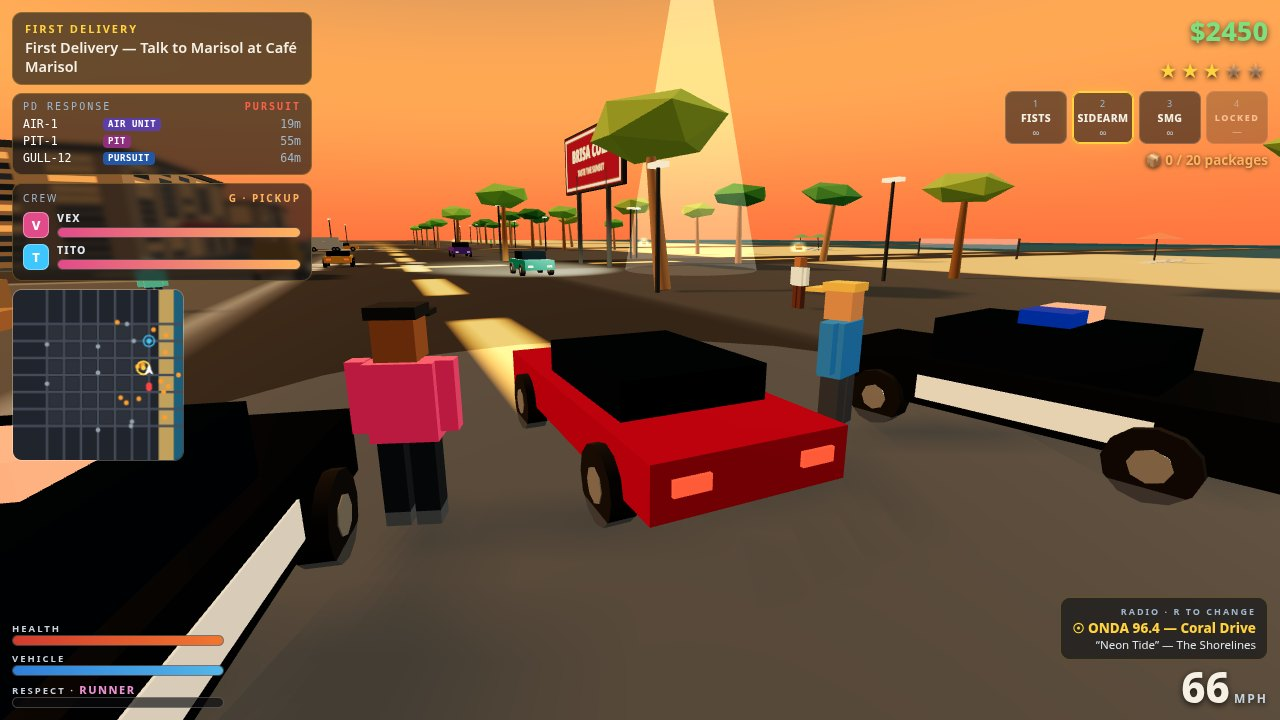
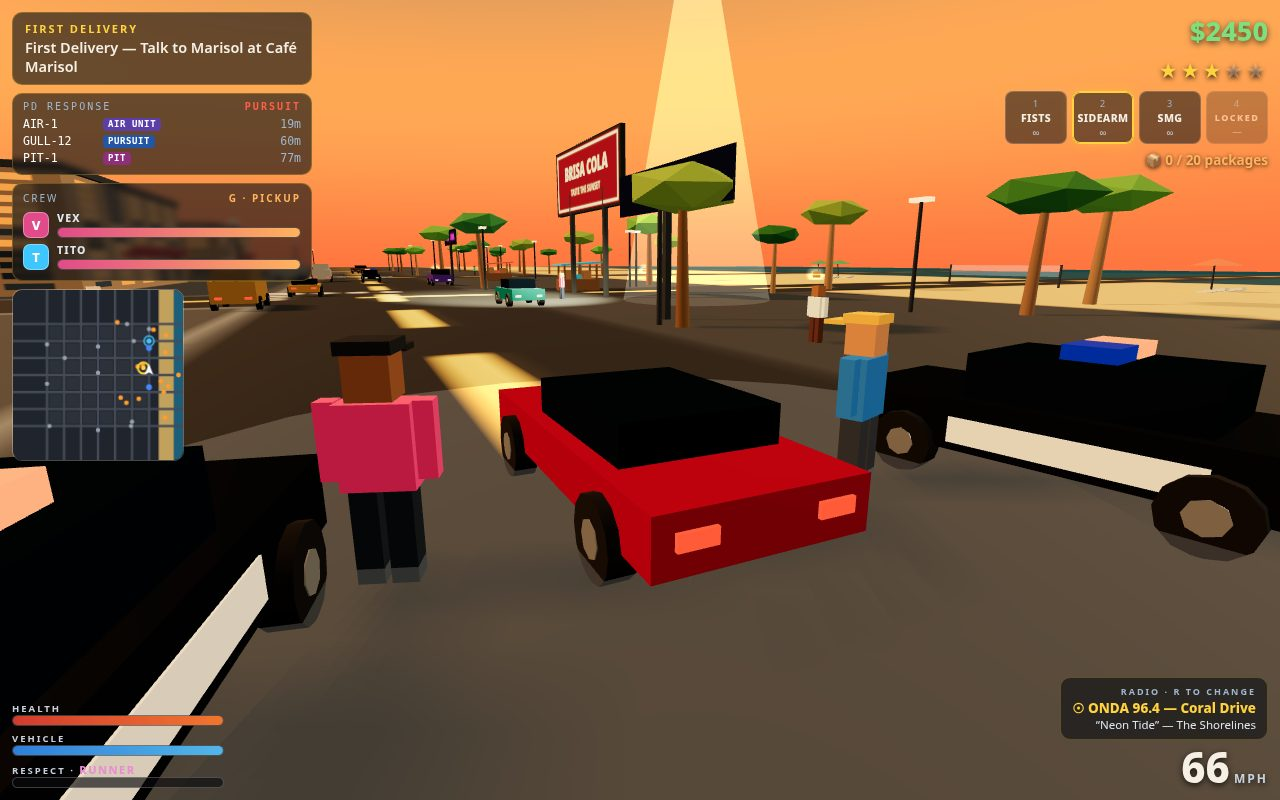
Palmshade City v11: v9 base + density pass, bright re-staged screenshots

diff --git a/game/src/main.js b/game/src/main.js
@@ -113,8 +113,8 @@ G.vanCar = vanCar;
 const boat = createBoat(scene, landmarks.boatDock.x, landmarks.boatDock.z, Math.PI / 2);
 G.boat = boat;
 spawnParkedCars(scene);
-const traffic = new Traffic(scene, 9);
-const peds = new Peds(scene, 26);
+const traffic = new Traffic(scene, 13);
+const peds = new Peds(scene, 34);
 const police = new Police(scene);
 const combat = new Combat(scene);
 G.combat = combat;
@@ -645,6 +645,11 @@ function stageShot(name) {
     extraCar('sedan', 186.5, -48, 0, 0x2ea6a0);
     extraCar('sport', 174.5, -64, Math.PI, 0xf2b035);
     extraCar('pickup', 186.5, -82, 0, 0x7a4fd0);
+    extraCar('convertible', 186.5, 6, 0, 0x53a06b);
+    extraCar('van', 174.5, -100, Math.PI, 0xe8e4da);
+    placePed(3, 190.5, -52, -Math.PI / 2);
+    placePed(4, 170.5, -58, 0.9);
+    placePed(5, 190.5, 2, Math.PI / 2);
     placePed(0, 190.5, -27, -Math.PI / 2);
     placePed(1, 190.5, -11, Math.PI / 2);
     placePed(2, 170.5, -36, 0.4);
@@ -659,10 +664,17 @@ function stageShot(name) {
     player.teleport(170.5, -20, -1.2);
     extraCar('sedan', 186, -28, 0.05, 0x3f9be0);
     extraCar('sport', 180.5, -42, Math.PI, 0xe14b8a);
+    extraCar('pickup', 186.5, -58, 0, 0x7a4fd0);
+    extraCar('convertible', 174.5, -6, Math.PI, 0x53a06b);
+    extraCar('van', 186.5, 8, 0, 0xe8e4da);
     placePed(0, 173.5, -24.5, 2.6);
     placePed(1, 168.2, -15.2, -0.6);
     placePed(2, 172.8, -12.8, 3.0);
     placePed(3, 190, -26, -Math.PI / 2);
+    placePed(4, 190.5, -44, -Math.PI / 2);
+    placePed(5, 169.5, -32, 1.1);
+    placePed(6, 190.5, -8, Math.PI / 2);
+    placePed(7, 171.5, -48, -0.4);
     G.shotCam = { pos: new THREE.Vector3(175.6, 2.0, -16.2), look: new THREE.Vector3(169.6, 1.25, -20.8) };
   } else if (name === 'mission') {
     vanCar.group.position.set(169, 0, -43); vanCar.heading = 0.35; vanCar.group.rotation.y = 0.35;
@@ -694,6 +706,8 @@ function stageShot(name) {
     G.dialogue(DARIO, ['Dario: "Easy on the throttle past the pier — run it out past the south buoy, and bring my Brisa home."']);
     placePed(0, 240, -14, Math.PI / 2);
     placePed(1, 238, 12, -0.5);
+    placePed(2, 246, 26, -1.2);
+    placePed(3, 232, -28, 0.6);
     G.shotSpeedo = 21;
     G.shotCam = { pos: new THREE.Vector3(308, 4.2, 46), look: new THREE.Vector3(289, 0.7, 29) };
   } else if (name === 'race') {
@@ -734,13 +748,9 @@ function stageShot(name) {
     const cu3 = police.spawnUnit({ x: 180, z: 36 }); cu3.role = 'RAM';
     police.setHeliForced(true, { x: 180, z: 36 });
     if (police.heli) { police.heli.group.position.set(172, 17, 22); police.heli.group.lookAt(180, 0, 36); }
-    // dusk grade: dimmer sky light, low sun for long shadows, headlights pop
-    renderer.toneMappingExposure = 1.0;
-    scene.traverse(o => {
-      if (o.isHemisphereLight) o.intensity = 0.5;
-      else if (o.isAmbientLight) o.intensity = 0.22;
-      else if (o.isDirectionalLight && o.castShadow) { o.intensity = 1.2; o.position.set(-340, 85, -120); }
-    });
+    // v11: bright daylight grade — keep the golden-hour exposure from above,
+    // no dusk dimming, so the police action reads clearly in full sun
+    renderer.toneMappingExposure = 1.34;
     G.shotCam = { pos: new THREE.Vector3(176.2, 2.8, 43.2), look: new THREE.Vector3(180.2, 1.05, 35.4) };
   } else { // beach
     player.teleport(234, -18, Math.PI / 3);
@@ -804,6 +814,7 @@ window.__game = {
     taxi: activities.taxi.phase,
     taxiPed: activities.taxi.ped ? { x: Math.round(activities.taxi.ped.x), z: Math.round(activities.taxi.ped.z) } : null,
     weapon: G.weapon,
+    pedCount: peds.list.length, trafficCount: traffic.units.length,
     upgrades: { ...G.upgrades },
     standing: { ...G.standing },
     district: G.districtAt(G.entityPos().x),
@@ -848,5 +859,5 @@ window.__game = {
   damageNearestCar: n => { const c = nearestCar(9); if (c) { c.health = n; } return !!c; },
   spikeHere: () => police.debugSpikeAt(G.entityPos()),
   setCarHealth: n => { if (G.currentCar) G.currentCar.health = n; },
-  version: 'palmshade-city-3',
+  version: 'palmshade-city-11',
 };

diff --git a/game/src/city.js b/game/src/city.js
@@ -214,7 +214,7 @@ export function buildCity(scene) {
   scene.add(water);
 
   // ---------- buildings ----------
-  const facades = [facadeTextures('#8a5a48', 0.5), facadeTextures('#5d6d7e', 0.62), facadeTextures('#a08364', 0.45), facadeTextures('#746a8a', 0.55)];
+  const facades = [facadeTextures('#8a5a48', 0.68), facadeTextures('#5d6d7e', 0.78), facadeTextures('#a08364', 0.62), facadeTextures('#746a8a', 0.72)];
   const roofMat = new THREE.MeshStandardMaterial({ color: 0x3c4046, roughness: 1 });
   const reserved = new Set(['150,-30', '-30,-150', '-150,150', '90,90', '-30,30']);
   function building(x, z, w, d, h, fi) {
@@ -404,7 +404,7 @@ export function buildCity(scene) {
       spots.push({ x: r + s * 9.6, z: -100 + rng() * 200 });
       spots.push({ x: -100 + rng() * 200, z: r + s * 9.6 });
     }
-    for (const s of spots.slice(0, 26)) {
+    for (const s of spots) {
       const kind = rng();
       if (kind < 0.4) { box(benchM, 2, 0.5, 0.6, s.x, 0.45, s.z, scene); addCollider(s.x, s.z, 2, 0.6, 0.5); }
       else if (kind < 0.7) { const b = new THREE.Mesh(new THREE.CylinderGeometry(0.42, 0.42, 1, 8), binM); b.position.set(s.x, 0.5, s.z); b.castShadow = true; scene.add(b); }
@@ -451,6 +451,44 @@ export function buildCity(scene) {
     billboard(194, -56, Math.PI / 2, 'BRISA COLA', 'TASTE THE SUNSET', '#8e2318', '#ffd9a0');
     billboard(194, 96, Math.PI / 2, 'ONDAS GRAND', 'SLEEP BY THE SEA', '#14425e', '#bfe6ff');
     billboard(-70, -104, 0.5, 'PALMSHADE MOTORS', 'OWN THE BOULEVARD', '#20301e', '#c8ffb0');
+  }
+  // ---------- v11 density: market stalls, crate stacks, daylight signs ----------
+  {
+    const stallCols = [0xe2725b, 0x3ec6ff, 0xffd23e, 0x53a06b, 0xe14b8a];
+    const woodM = new THREE.MeshStandardMaterial({ color: 0x7d5c39, roughness: 1 });
+    const crateM2 = new THREE.MeshStandardMaterial({ color: 0xa87c4c, roughness: 0.95 });
+    [[196, -96], [196, -64], [196, 52], [196, 84], [132, -52], [-52, 8]].forEach(([sx, sz], i) => {
+      const cm = new THREE.MeshStandardMaterial({ color: stallCols[i % stallCols.length], roughness: 0.85 });
+      box(woodM, 3.4, 1.0, 2.0, sx, 0.5, sz, scene);
+      for (const px2 of [-1.5, 1.5]) for (const pz2 of [-0.85, 0.85]) box(woodM, 0.14, 2.3, 0.14, sx + px2, 1.15, sz + pz2, scene);
+      const canopy = box(cm, 3.9, 0.14, 2.5, sx, 2.35, sz, scene); canopy.rotation.z = 0.06;
+      box(crateM2, 0.8, 0.8, 0.8, sx - 1.0, 1.4, sz, scene);
+      box(crateM2, 0.7, 0.7, 0.7, sx + 0.7, 1.35, sz + 0.3, scene);
+      box(cm, 0.9, 0.35, 0.9, sx + 0.1, 1.2, sz - 0.4, scene);
+      addCollider(sx, sz, 3.4, 2.0, 1.0);
+    });
+    const barrelM = new THREE.MeshStandardMaterial({ color: 0x3f6fb5, roughness: 0.7 });
+    [[-128, 128], [-172, 118], [216, 32], [104, 68], [60, -96], [-96, -52]].forEach(([sx, sz]) => {
+      box(crateM2, 1.6, 1.6, 1.6, sx, 0.8, sz, scene);
+      box(crateM2, 1.3, 1.3, 1.3, sx + 0.4, 2.25, sz, scene);
+      box(crateM2, 1.5, 1.5, 1.5, sx + 1.9, 0.75, sz + 0.6, scene);
+      const b = new THREE.Mesh(new THREE.CylinderGeometry(0.55, 0.55, 1.3, 10), barrelM);
+      b.position.set(sx - 1.6, 0.65, sz + 0.8); b.castShadow = true; scene.add(b);
+      addCollider(sx, sz, 2.2, 2.2, 1.6);
+    });
+    const poleM2 = new THREE.MeshStandardMaterial({ color: 0x2f353c, roughness: 0.8 });
+    const signs = [
+      ['NEON PALMS', '#ff4fd8', 190, -96], ['HOTEL BRISA', '#3ec6ff', 190, 36],
+      ['CLUB FAROS', '#ff9f45', 190, 96], ['MARINA BAR', '#ff5f4a', 190, -36],
+      ['TACO SOL', '#7ddf7d', -96, -68], ['CINE ONDA', '#c792ff', 68, 128],
+    ];
+    for (const [txt, col, nx, nz] of signs) {
+      box(poleM2, 0.28, 6.4, 0.28, nx, 3.2, nz, scene);
+      const s = new THREE.Mesh(new THREE.PlaneGeometry(10, 1.9),
+        new THREE.MeshBasicMaterial({ map: signTexture(txt, '#101018', col), side: THREE.DoubleSide }));
+      s.position.set(nx, 5.6, nz); s.rotation.y = Math.PI / 2; s.userData.neon = true; scene.add(s);
+      addCollider(nx, nz, 0.5, 0.5, 3);
+    }
   }
   // ---------- Palms (instanced) ----------
   {

diff --git a/game/index.html b/game/index.html
@@ -179,7 +179,7 @@
   <!-- MENU -->
   <div id="menu" class="overlay">
     <h1>PALMSHADE<br>CITY</h1>
-    <div class="sub">A sun-soaked coastal city, one café at war with the Breakwater Boys, and you — the new runner. Ten jobs for Marisol Vega and Captain Dario stand between you and the top of the beach — by car, on foot, and by boat. Street races and taxi fares pay the rest.</div>
+    <div class="sub">A sun-soaked coastal city, one café at war with the Breakwater Boys, and you — the new runner. Ten jobs for Marisol Vega and Captain Dario stand between you and the top of the beach — by car, on foot, and by boat. Street races and taxi fares pay the rest. <b>v11</b></div>
     <button id="btnPlay" class="btn">▶ PLAY</button>
     <button id="btnContinue" class="btn ghost hidden">CONTINUE</button>
     <div class="controls">

diff --git a/main.ts b/main.ts
@@ -21,7 +21,8 @@ const here = fileURLToPath(new URL('.', import.meta.url));
 const out = process.env.MAKEFUN_OUTPUT_DIR ?? '/output';
 
 const ENTRY_TITLE = 'Palmshade City';
-console.log(`Packing entry: ${ENTRY_TITLE} — an original open-world crime game for make.fun gta6-01`);
+const ENTRY_VERSION = 'v11'; // Palmshade City v11: v9 base + bright density pass, re-staged bright screenshots
+console.log(`Packing entry: ${ENTRY_TITLE} ${ENTRY_VERSION} — an original open-world crime game for make.fun gta6-01`);
 
 mkdirSync(out, { recursive: true });
 cpSync(join(here, 'game'), join(out, 'game'), { recursive: true });

diff --git a/README.md b/README.md
@@ -18,8 +18,13 @@ their turf war with the Breakwater Boys.
   run, a marina pickup, a warehouse shootout, a boat delivery across the bay, a
   checkpoint street race against Drey's wheelman, and a rooftop finale on
   Warehouse 7 — replayable at a ×1.5 payout.
+- **Denser city (v11)**: 13 traffic cars, 34 pedestrians, market stalls along
+  the promenade, crate and barrel stacks, every street-prop spot filled
+  (benches, bins, hydrants), brighter facades with more lit windows, and
+  freestanding signs that read in full daylight — all in the same bright
+  golden-hour look, with four re-staged bright screenshots.
 - A living city with real-time shadows and golden-hour atmosphere: AI traffic,
-  26 pedestrians, parked cars you can take, animated marina water, billboards,
+  34 pedestrians, parked cars you can take, animated marina water, billboards,
   beach umbrellas and loungers, and a Palmshade PD that answers witnessed crimes
   with a 0–5 star wanted system — pursuit units with callsigns and roles shown
   live in the **Police Response Panel**, roadblocks and the **AIR-1 helicopter**
